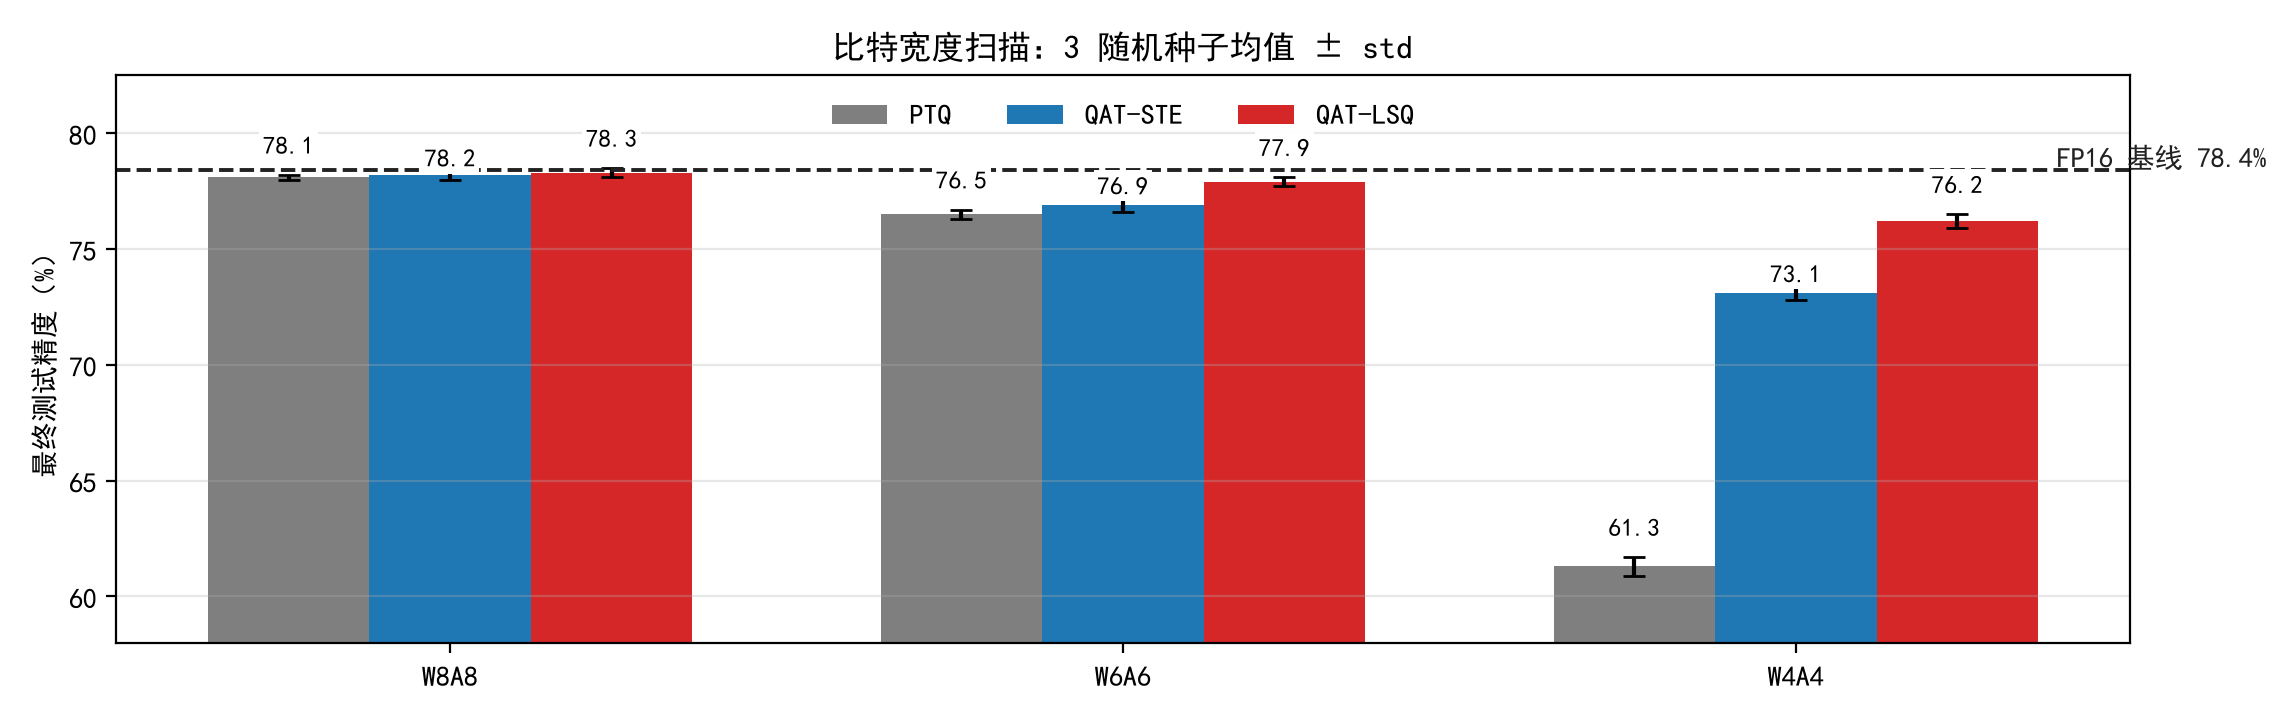
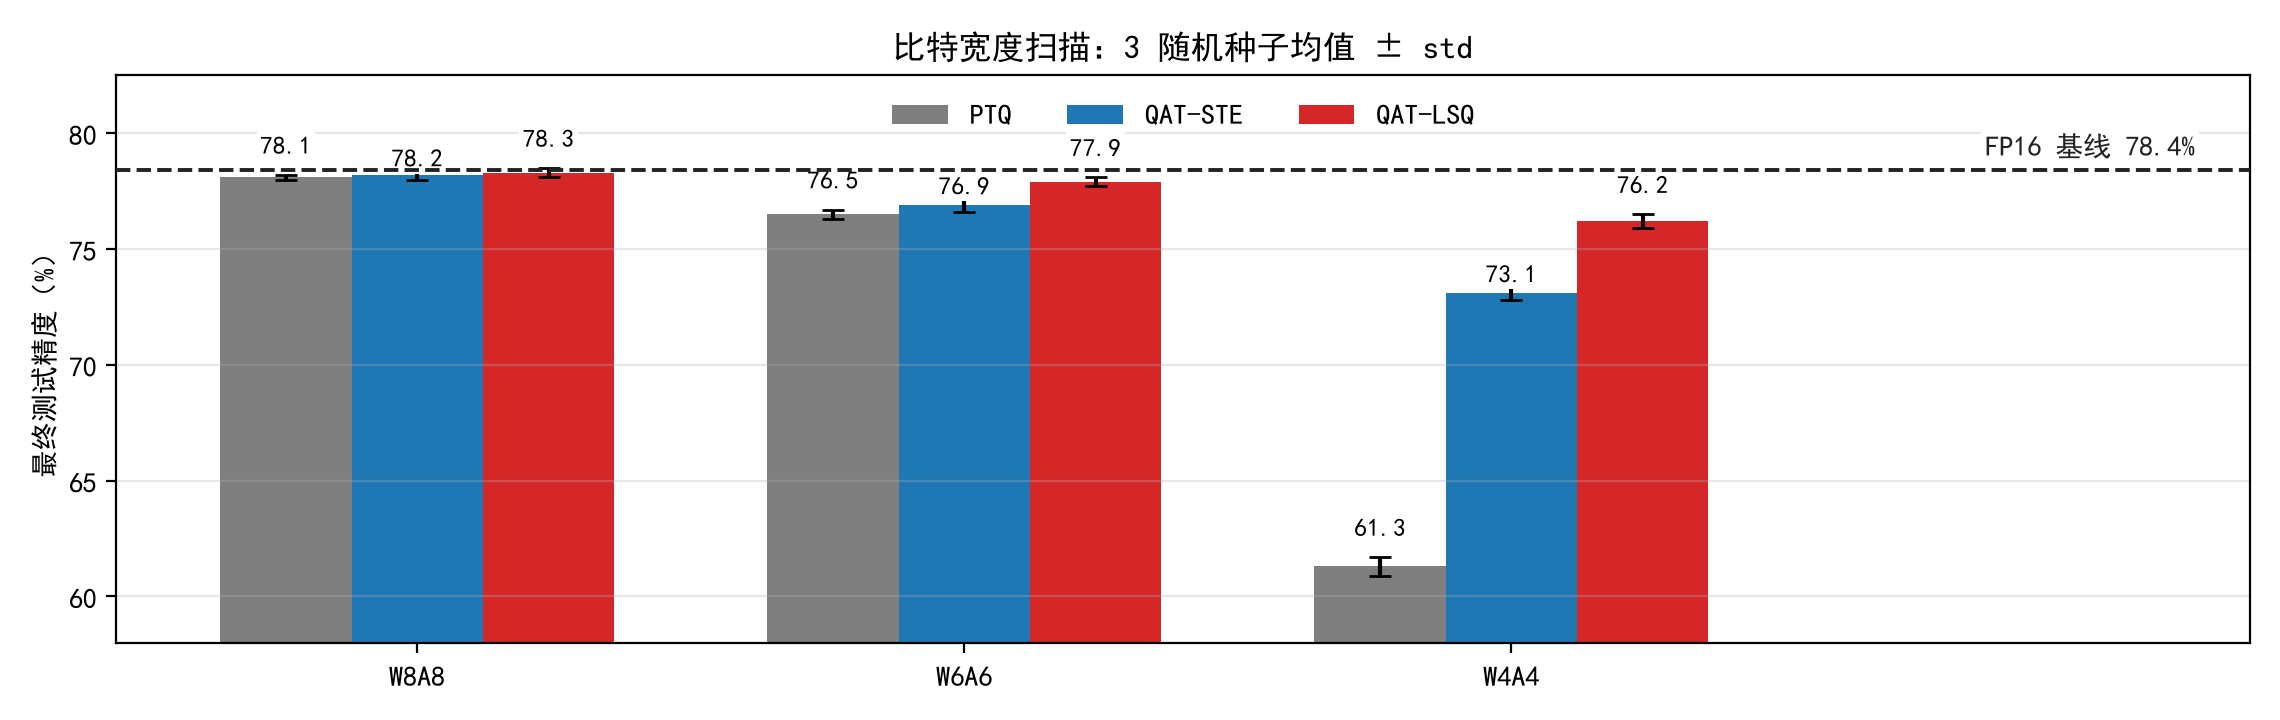
Dual-axis fresh review loop on the new demo: 8 findings fixed to zero
Round 1 (two fresh subagents: G3 content axis + G1 form axis per
reviewer-contract): 2x P3 dash-pattern hits in outline meta-text; P2 p9
FP16 annotation struck through by its own dashed line; P3 agenda list
bottom-heavy; P3 dangling inline-sqrt vinculum (deck text); P3 uneven
a.e. spacing in a display formula.

Fixes: dashes rewritten; annotation lifted above the line with white
backing + explicit zorder; agenda list region re-centered on the
band-to-footer usable area in the manifest (y1.11 h5.2, anchor ctr both
renderers, web snapshot synced); inline math converted to prose; a.e.
emitted as spaced parenthetical text. Agenda-label 40pt-centered
recorded in outline as an intentional template-convention exception.

Round 3 re-review: content axis No findings; form axis one residual P3
(annotation backing still clipping the right spine) -> figure gets an
explicit xlim margin so the box sits fully inside the axes; round-4
final check No findings. Gates re-run green after every fix round;
pytest 130 passed.

diff --git a/assets/web-template/src/pages/AgendaPage.jsx b/assets/web-template/src/pages/AgendaPage.jsx
@@ -32,6 +32,9 @@ export function AgendaPage({ page, arch, revealed }) {
           data-rhythm="1"
           style={{
             ...regionStyle(arch.regions.list),
+            // vertically center a sparse list, like the pptx anchor="ctr":
+            // bottom-anchored emptiness reads as imbalance
+            display: 'flex', flexDirection: 'column', justifyContent: 'center',
             ...textboxPadding(),
             ...rhythmLineHeight(),
             ...regionRole(page.archetype, 'list'),

diff --git a/examples/qat-lsq-repro/material/make_figures.py b/examples/qat-lsq-repro/material/make_figures.py
@@ -96,9 +96,14 @@ def bitwidth_bars(path):
             ax.text(bar.get_x() + bar.get_width() / 2, m + s + label_offset[i],
                     f"{m:.1f}", ha="center", fontsize=9,
                     bbox=dict(facecolor="white", edgecolor="none", pad=1.2))
-    ax.axhline(FP16[0], linewidth=1.4, linestyle="--", color="#222222")
-    ax.text(2.7, FP16[0] + 0.12, f"FP16 基线 {FP16[0]:.1f}%", fontsize=10,
-            ha="right", color="#222222")
+    ax.axhline(FP16[0], linewidth=1.4, linestyle="--", color="#222222",
+               zorder=3)
+    # annotation INSIDE the axes with margin so neither the glyphs nor the
+    # white backing box ever touch the dashed line or the right spine
+    ax.set_xlim(-0.55, 3.35)
+    ax.text(3.25, FP16[0] + 0.45, f"FP16 基线 {FP16[0]:.1f}%", fontsize=10,
+            ha="right", va="bottom", color="#222222", zorder=5,
+            bbox=dict(facecolor="white", edgecolor="none", pad=1.5))
     ax.set_xticks(list(xs))
     ax.set_xticklabels(BITWIDTHS)
     ax.set_ylabel("最终测试精度（%）")

diff --git a/scripts/render_pptx.py b/scripts/render_pptx.py
@@ -706,8 +706,10 @@ def fill_agenda(slide, page: dict, arch: dict, manifest: dict) -> None:
                                             algn="ctr")])
     _sp_tree(el).append(label)
     if items:  # a list block is optional; never emit an empty txBody
+        # sparse agenda lists vertically center in their region (mirror of
+        # the ContentArea flow: bottom-anchored emptiness reads as imbalance)
         box = _textbox_shape("AgendaList", arch["regions"]["list"],
-                             _next_shape_id(el), tokens)
+                             _next_shape_id(el), tokens, anchor="ctr")
         _fill_textbox(box, [_styled_paragraph(item, list_style, tokens,
                                               rhythm=True, emphasis=True)
                             for item in items])

diff --git a/tests/test_render_pptx.py b/tests/test_render_pptx.py
@@ -520,8 +520,10 @@ def test_render_full_fixture(tmp_path):
         assert sp.left >= 0 and sp.top >= 0
         assert sp.left + sp.width <= canvas_w + 2
         assert sp.top + sp.height <= canvas_h + 2
-    # the safe geometry replaces the original overflow: list bottom at 6.8, not 10.0
-    assert item_list.top + item_list.height == pytest.approx(Inches(6.8), abs=2)
+    # the safe geometry replaces the original overflow (was bottom 10.0);
+    # S6 r2: the region is y1.11 h5.2, centered on the band-to-footer usable
+    # area, so the box bottom sits at 6.31 with anchor=ctr centering the list
+    assert item_list.top + item_list.height == pytest.approx(Inches(6.31), abs=2)
 
     # -- page 3 still carries its native OMML formulas
     assert omath_count(prs.slides[2]) == 2

diff --git a/examples/qat-lsq-repro/outline.md b/examples/qat-lsq-repro/outline.md
@@ -5,14 +5,14 @@
 页型语义与容量上限：`templates/blcu-report/manifest.json`（字数按 CJK 等宽计）
 样式系统：`typography.tokens`（Noto Sans SC 唯一字族，字重+颜色层级，
 **关键词** 绿色加粗强调仅用于正文流；全部页标题 ≤15 字，统一 44pt 不降档）
-密度基准：模板原件实测每页 86–458 字（公式页 133+ 字与公式混排）——本 demo
+密度基准：模板原件实测每页 86–458 字（公式页 133+ 字与公式混排）；本 demo
 向其对齐：text-formula 单一全高内容流（公式居中行 + 正文左对齐混排）、
 chart-focus 全宽图 + 图下全宽评注带
 
 ## CP1 决策记录（无用户在场，按组会体裁惯例自决）
 
 1. 大纲：11 页五节，背景 2 页讲清「量化是什么、PTQ 为什么塌」，方法 2 页给 QAT/LSQ 公式，
-   实验 3 页一页一结论，结论 1 页纯文字收束——按组会算法复现汇报的惯例节奏定稿。
+   实验 3 页一页一结论，结论 1 页纯文字收束：按组会算法复现汇报的惯例节奏定稿。
 2. 页数：11（cover + agenda + 4 公式页 + 1 图文页 + 3 图表页 + 1 结论页）。
 3. 输出模式：both（README 中的再生命令同时覆盖 pptx 与 web 两条链）。
 4. 封面元数据：汇报人 李然，日期 2026-08-27。
@@ -24,7 +24,7 @@ chart-focus 全宽图 + 图下全宽评注带
 | # | 页型 | 标题 | 内容要点 | 配图 |
 |---|------|------|----------|------|
 | 1 | cover | 量化感知训练复现与实验分析 | 汇报人行：汇报人:李然 2026-08-27 | — |
-| 2 | agenda | 汇报大纲 | 五节；标签条内垂直居中 | — |
+| 2 | agenda | 汇报大纲 | 五节；标签 40pt 居中（有意例外，模板 agenda 惯例；内容页标题仍 44pt 左轴）+ 列表垂直居中 | — |
 | 3 | text-formula | 背景：均匀量化与反量化 | 1 公式（量化+反量化）+ 2 段说明（重建误差随比特、逐通道缩放） | — |
 | 4 | text-formula | 背景：后训练量化的精度塌陷 | 1 公式（舍入导数 a.e. 为 0）+ 2 段说明（78.4→61.3 塌陷报数） | — |
 | 5 | text-formula | 方法：伪量化与直通估计 | 2 公式（伪量化前向 + STE 指示）+ 2 段说明（**直通估计** 强调） | — |

diff --git a/examples/qat-lsq-repro/演讲稿.md b/examples/qat-lsq-repro/演讲稿.md
@@ -25,7 +25,7 @@
 
 ## 6 方法：LSQ 可学习步长
 
-LSQ 的核心一步：把步长 s 变成可训练参数。对 s 求导得到的括号里那一项，是舍入残差，自带符号，逐层告诉 s 该放宽还是收窄。两个工程细节：一是步长用独立学习率，主学习率除以根号 2^b，避免和权重更新互相干扰；二是初始化，取 r 乘 max 再除以 2 的 b 减一次方，主结果用 r 等于 2，这个 r 的敏感性后面有单独的消融页。
+LSQ 的核心改动是把步长 s 变成可训练参数。对 s 求导得到的括号里那一项，是舍入残差，自带符号，逐层告诉 s 该放宽还是收窄。两个工程细节：一是步长用独立学习率，主学习率除以根号 2^b，避免和权重更新互相干扰；二是初始化，取 r 乘 max 再除以 2 的 b 减一次方，主结果用 r 等于 2，这个 r 的敏感性后面有单独的消融页。
 
 ## 7 复现设置：数据、网络与超参
 
